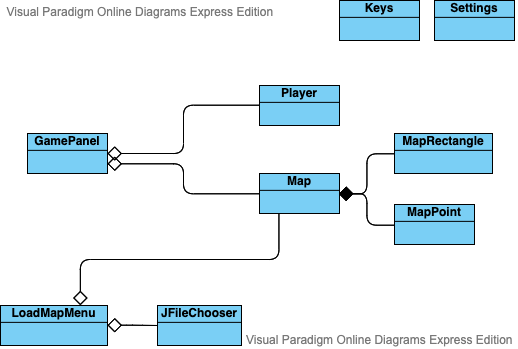
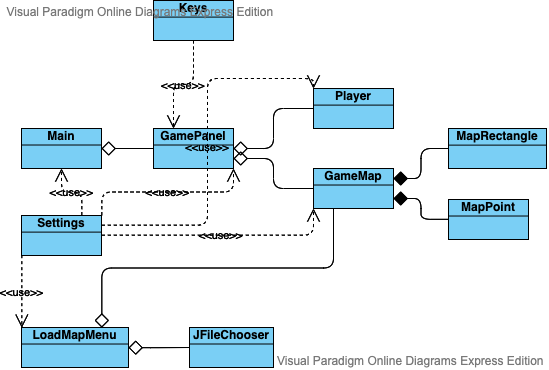
update classDiagram

Changed region(s): [[0.0, 0.2006, 1.0, 1.0], [0.6486, 0.0, 1.0, 0.1146], [0.0, 0.0, 0.5251, 0.1146]]

diff --git a/src/main/kotlin/GamePanel.kt b/src/main/kotlin/GamePanel.kt
@@ -1,5 +1,5 @@
 import graphics.GameMap
-import graphics.model.Person
+import graphics.model.Player
 import utils.Keys
 import java.awt.Graphics
 import java.awt.Graphics2D
@@ -11,7 +11,7 @@ import utils.Settings as set
 /** The main game window */
 class GamePanel(private val gameMap: GameMap) : JPanel(), KeyListener {
 
-    private val person = Person(set.X_START_POINT, set.Y_START_POINT)
+    private val person = Player(set.X_START_POINT, set.Y_START_POINT)
 
     init {
         this.addKeyListener(this)

diff --git a/src/main/kotlin/graphics/model/Player.kt b/src/main/kotlin/graphics/model/Player.kt
@@ -7,7 +7,7 @@ import java.awt.geom.Ellipse2D
  * x, y represents the current player coordinates in pixels
  * xCoordinate, yCoordinate represents the player coordinates in squares
  * */
-class Person(var xCoordinate: Int, var yCoordinate: Int)
+class Player(var xCoordinate: Int, var yCoordinate: Int)
     : Ellipse2D.Double(xCoordinate.toDouble(), yCoordinate.toDouble(), Settings.CHARACTER_DIAMETER.toDouble(), Settings.CHARACTER_DIAMETER.toDouble()) {
 
     fun updatePosition() {
